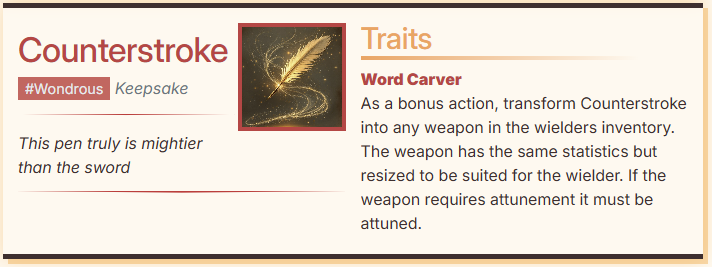
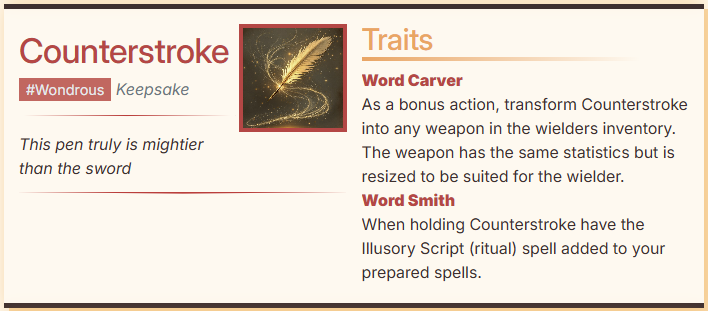
Quartz sync: May 11, 2026, 10:32 PM

Changed region(s): [[0.0, 0.0, 1.0, 1.0], [0.0, 0.5993, 0.4661, 0.6592], [0.0621, 0.6891, 0.4661, 0.7491]]

diff --git a/content/Player Characters/Xylira.md b/content/Player Characters/Xylira.md
@@ -1,0 +1,106 @@
+---
+title:
+draft: false
+aliases:
+type: Player
+faction:
+location: Party
+description: Mixed Elf
+disposition:
+player: Cam
+tags:
+status: Alive
+image: "[[Xylira.png]]"
+level: "1"
+---
+![[Xylira Statblock.png]]
+
+### Description
+Name: Xylira (Zy-LEE-rah)
+Race: Mixed high elf/drow
+Gender: female
+Size: medium (5 foot), slim frame
+Alignment: Chaotic Neutral (tending Good)
+Race: High elf / Drow elf (mixed)
+Faith: Vhaeraun,  also known as the Masked Lord and the Masked God of Night, is the drow god of thievery
+
+### Level & Knowledge
+Level 1 Warlock
+Fey Ancestry
+
+### Keepsake
+![[Silver Pendant-1.png]]
+
+### Personal Quest
+*Goals, motives, ideas*
+
+### Relationships
+Mother
+Father - Unkown
+
+### Backstory
+![[Xylira.png]]
+Your mother never spoke your father’s name.
+
+Only that he had been a High Elf noble — wealthy enough to own servants, powerful enough to command a reputation in society, and selfish enough to let a Drow kitchen slave flee into the night carrying his bastard child. Whenever you pressed her for answers, your mother would retreat into silence, a tarnished silver pendant bracelet being the only personal possession you retain from that time. Some wounds, she warned, were safer left unopened.
+
+<img src="../Assets/Xylira Hungry.png" style="float: left; margin-right: 20px;" width="300">
+After running away from home, you grew up in alleys, market stalls, and crumbling tenements, drifting from city to city wherever coin, shelter, or pity could be found. Hunger became a familiar companion. So too did resentment. While noble families dined beneath chandeliers and studied in marble halls, you learned how long stale bread remained edible and which guards could be bribed to look the other way.
+
+You naturally despise aristocrats — not merely for their cruelty, but for how easily the world bent around them. Somewhere among them lived the father who had abandoned you before you were even born. Though you had never met him, you often imagined the moment you finally would. Sometimes you pictured triumph, sometimes revenge. Most often, you imagined forcing him to look upon what he had discarded.
+
+As a teenager, you became obsessed with magic. You believed that if you could master the arcane arts, you could carve yourself a place among the very elite who had rejected you. You spent years pursuing admission to wizarding academies, mage colleges, and private scholarly circles, only to find every door closed before you.
+
+Some claimed you lacked talent. Others dismissed you as too old to begin proper training. A few simply looked at your dark skin and concealed their contempt behind polite smiles.
+Still, you refused to abandon the dream. If discipline and talent would not earn you power, then you would simply find another way.
+
+You began associating with vagabonds, smugglers, confidence tricksters, and petty criminals — people who understood that rules were obstacles designed by the powerful to keep others beneath them. From them, you learned how to weave your way into forbidden rooms, forge documents, disappear into crowds, and talk your way out of trouble with half-truths and confident lies.
+
+By day, you travelled between academies, monasteries, and libraries performing secretarial work, copying manuscripts, and organising archives in exchange for room and board. Occasionally, you forged letters of recommendation or false admission papers for desperate apprentices willing to pay.
+
+<img src="../Assets/Xylira stealing.png" style="float: right; margin-left: 20px;" width="300">
+By night, in the comfort of the pale moonlight, you robbed the very institutions that had rejected you. You prowled silent corridors beneath candlelight, slipping through archives and forbidden storehouses in search of magical curiosities to steal and sell upon the black market. Though you lacked the education to understand many of the relics you encountered, that rarely stopped you. More often than not, you simply took whatever looked valuable, ancient, or dangerous.
+
+It was reckless work. Time after time, you triggered wards, disturbed magical sensors and narrowly escaped summoned guardians. On more than one occasion, you avoided imprisonment only by planting evidence among another’s belongings or convincing your accusers you were a mere pawn in the game of an opposing House, letting the chaos of the political conflict distract them from your guilt.
+
+Somehow, against all reason, fortune seemed to favour you, so you never changed your ways; although you occasionally gave alms to the poor, especially street urchins in exchange for insider information.
+
+Such a tip led you to infiltrate the estate of a renowned collector of magical artifacts, posing as a culinary assistant. One dark evening, you snuck into a secluded windowless trophy chamber hidden down a dark hallway. Ancient weapons lined the room: ceremonial blades, cracked shields, spears blackened with age.
+
+Your attention settled briefly upon a gem-studded kris resting atop a velvet stand. Then you heard the whisper – soft, calm, almost amused.
+
+“Here.”
+
+You froze. The voice did not echo through the chamber so much as curl gently through your thoughts like drifting smoke. Turning slowly, your eyes settled upon a cold iron-bound chest hidden in the corner of the room. The closer you stepped toward it, the louder the whisper became.
+
+“Closer.”
+
+The chest itself was immaculate, its surface carved with unfamiliar glyphs that shimmered faintly beneath your fingertips. Yet the padlock fastening it shut appeared strangely corroded, as though decades older than the chest it protected.
+
+Every instinct warned you to leave it alone. Which only made you want it more. Using the kris as leverage, you pried at the weakened lock until the rusted metal crumbled apart like dried leaves. Inside the chest rested a large object wrapped tightly in layers of stained cloth. Laid carefully atop it was a single note:
+
+"Restricted: Dangerous Artifact. DO NOT TOUCH OR ATTUNE!"
+
+You smirked. For a fleeting moment, visions of gold flooded your mind. Rare artifacts fetched fortunes beyond imagination. Enough wealth could buy status. Influence. Freedom.
+
+Eagerly, you cast the warning aside and unwrapped the bundle. Your excitement vanished instantly as you beheld nothing more than a rusted war pick.
+
+Its metal head was dull and speckled with dirt; the wooden haft was worn with age, although you carved into its surface you observed crude Dwarvish runes, the thought of which made your stomach tighten with instinctive unease.
+
+As you ran your fingers along the markings, you felt a breeze stir your silver hair. Startled, you stumbled backward as the pick floated upwards and hung motionless in the air before you.
+
+Your breath caught in your throat as pale blue light slowly spread across the rusted metal. The whisper returned one final time, clearer now than ever before.
+
+“Finally…”
+
+<img src="Xylira freeing khalavoun.png" style="display: block; margin-left: auto; margin-right: auto; text-align: center;" width="80%">
+
+A violent chill raced down your spine, and perspiration evaporated at the cool touch of your bracelet against your skin. The blue glow vanished instantly, and the pick crashed against the stone floor with a deafening clang. Then came the shouts - the guards!
+
+Boots thundered through the corridor beyond the chamber as panic seized your body. Without thinking, and still clutching the dagger, fled through a rear passage into the freezing night, abandoning your possessions, your lodgings, and the life you had known.
+
+Yet even as fear clawed at your chest, another sensation pulled at you beneath it — subtle, impossible, undeniable. A presence - not commanding, not threatening; but guiding. Almost familial, the wind itself seemed to bend around your path, carrying you onward through the night until exhaustion finally overcame you.
+
+You awoke the following morning beneath the sprawling roots of an ancient oak tree, wrapped tightly in your travel cloak. Frost clung to the grass around you. A croaky, high-pitched voice chirped nearby.
+
+“Morning, moonshine. My master would like a word.”

diff --git a/content/Campaign 2 - General/Items.md b/content/Campaign 2 - General/Items.md
@@ -38,4 +38,43 @@ tags:
 >> [!blank]
 >> ## Traits
 >> **Word Carver**
->> As a bonus action, transform Counterstroke into any weapon in the wielders inventory. The weapon has the same statistics but resized to be suited for the wielder. If the weapon requires attunement it must be attuned.
+>> As a bonus action, transform Counterstroke into any weapon in the wielders inventory. The weapon has the same statistics but is resized to be suited for the wielder.
+>> **Word Smith**
+>> When holding Counterstroke have the Illusory Script (ritual) spell added to your prepared spells.
+
+
+> [!statblocks|columns]
+> 
+>> [!blank]  
+ >>![[Silver Pendant.png|cover htiny wtiny lp right]]
+ >> # Silver Pendant
+>> > #Wondrous *Keepsake* 
+>> 
+>> ---
+>> *Some wounds are safer left unopened*
+>> 
+>> ---
+>> 
+>
+>> [!blank]
+>> ## Traits
+>> **Outsourced Magic**
+>> As a magic action, channel your patron's power through your familiar and evoke a Genie spell once without expending a spell slot. You must finish a Short Rest before you can use this again.
+
+> [!statblocks|columns]
+> 
+>> [!blank]  
+ >>![[Yoa Ring.png|cover htiny wtiny lp right]]
+ >> # Crest Ring
+>> > #Wondrous *Keepsake* 
+>> 
+>> ---
+>> *A ring with Yoa's family crest*
+>> 
+>> ---
+>> 
+>
+>> [!blank]
+>> ## Traits
+>> **Sealed, Delivered**
+>> When sealing a letter with this ring, you can speak the name of a person as well as a brief message. When the seal is broken by that person they will hear your message in their mind.

diff --git a/content/Campaign 2 - General/StatBlocks.md b/content/Campaign 2 - General/StatBlocks.md
@@ -118,4 +118,42 @@ tags:
 >>	- ✔
 >>	- [ ] 
 >>	- [ ] 
+
+
+> [!statblocks]
+> ![[Xylira Head.png|cover right circle profile+medium p+t]]
+> 
+> # Xylira
+> > High Elf / Drow
+> *Warlock*
+> *Lvl 1*
+>  
+> ---
+>| HP | AC | Initiative |
+>|:--:|:---:|:---:|
+>|10|14|+3|
+> 
+>| STR | DEX | CON | INT | WIS | CHA |  |
+>|:---:|:---:|:---:|:---:|:---:|:---:|:--- |
+>| 6 | 16 | 15 | 8 | 8 | 18 |  |
+>| -2 | +3 | +2 | -1 | -1 | +4 | **Mod** |
+>|  |  |  |  | +1 | +6 | **Sav** |
+>  
+>|  |  |
+>| ---:|:--- |
+>| **Speed** | 30ft |
+>| **Passive Perception** | 11 |
+>| **Proficiency Bonus** | +2 |
+>| **Darkvision** | 60ft |
+>| **Resurrection DC** |   *5*|
+> ---
+>> [!checks|no-t] 
+>> - **Death Saves**
+>>	- ❌
+>>	- [ ] 
+>>	- [ ] 
+>>	- [ ] 
+>>	- ✔
+>>	- [ ] 
+>>	- [ ] 
 >>	- [ ] 

diff --git a/content/Deities/Vhaeraun.md b/content/Deities/Vhaeraun.md
@@ -1,0 +1,21 @@
+---
+aliases:
+type: NPC
+faction:
+location:
+description: ""
+disposition:
+player:
+tags:
+title:
+draft:
+---
+# Vhaeraun, the Masked Lord
+
+### Description
+Vhaeraun,  also known as the Masked Lord and the Masked God of Night, is the drow god of thievery
+He held the unique view among drow that males and females were equally valuable and was primarily prayed to by those drow males who sought a better life than slavery under Lolth's matriarchy and who opposed it.
+
+#### Voice
+
+### Interactions

diff --git a/content/Player Characters/Yoa.md b/content/Player Characters/Yoa.md
@@ -22,24 +22,7 @@ image: "[[Yoa.jpg]]"
 Level 1 Rogue
 
 ### Keepsake
-> [!statblocks|columns]
-> 
->> [!blank]  
- >>![[Placeholder Image.png|cover htiny wtiny lp right]]
- >> # Name
->> > #Wondrous *item* #Uncommon 
->> 
->> ---
->> *Description of the item here
->> Lorrem Impsum*
->> 
->> ---
->> 
->
->> [!blank]
->> ## Traits
->> **Trait Name**
->> Description
+![[Yoa Ring Statblock.png]]
 
 ### Personal Quest
 *Goals, motives, ideas*

diff --git a/content/Player Characters/Andrew.md b/content/Player Characters/Andrew.md
@@ -1,23 +1,25 @@
 ---
-title:
-draft:
 aliases:
 type: Player
 faction:
 location: Party
 description: ""
 disposition:
-player: Cam
+player: Andrew
 tags:
+title:
+draft:
 status: Alive
 image: "[[Placeholder Image.png]]"
 ---
-
 ### Description
 *Brief description of Player*
 
 ### Level & Knowledge
-Bard
+*Class, level, languages*
+
+### Keepsake
+
 
 ### Personal Quest
 *Goals, motives, ideas*

diff --git a/content/Templates/Image - Center Scaled.md b/content/Templates/Image - Center Scaled.md
@@ -1,4 +1,4 @@
 ---
 draft: true
 ---
-<img src="Placeholder Image.png" style="display: block; margin-left: auto; margin-right: auto; text-align: center;" width="200">
+<img src="Placeholder Image.png" style="display: block; margin-left: auto; margin-right: auto; text-align: center;" width="80%">

diff --git a/content/Player Characters/Sevrian Moonpetal.md b/content/Player Characters/Sevrian Moonpetal.md
@@ -20,7 +20,6 @@ image: "[[Sevrian Moonpetal.png]]"
 
 ### Level & Knowledge
 Level 1 Bard
-Forgery Kit
 
 ### Keepsake
 ![[Counterstroke Statblock.png]]
